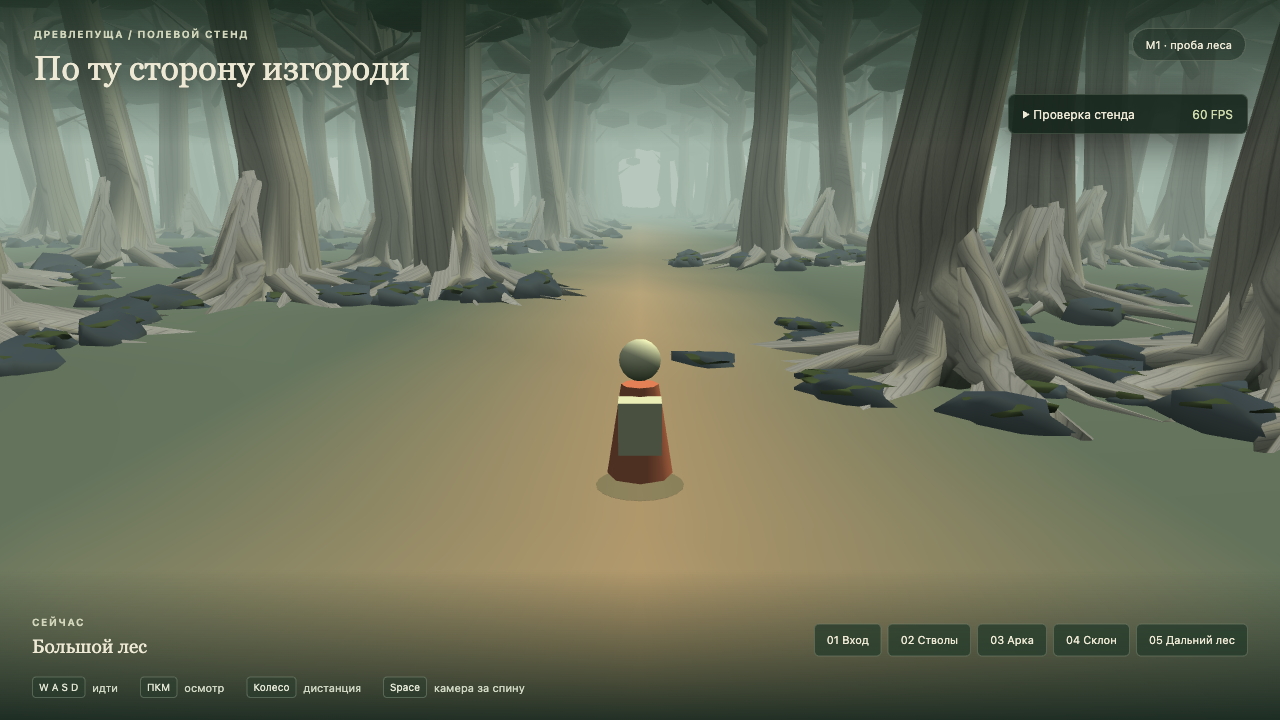
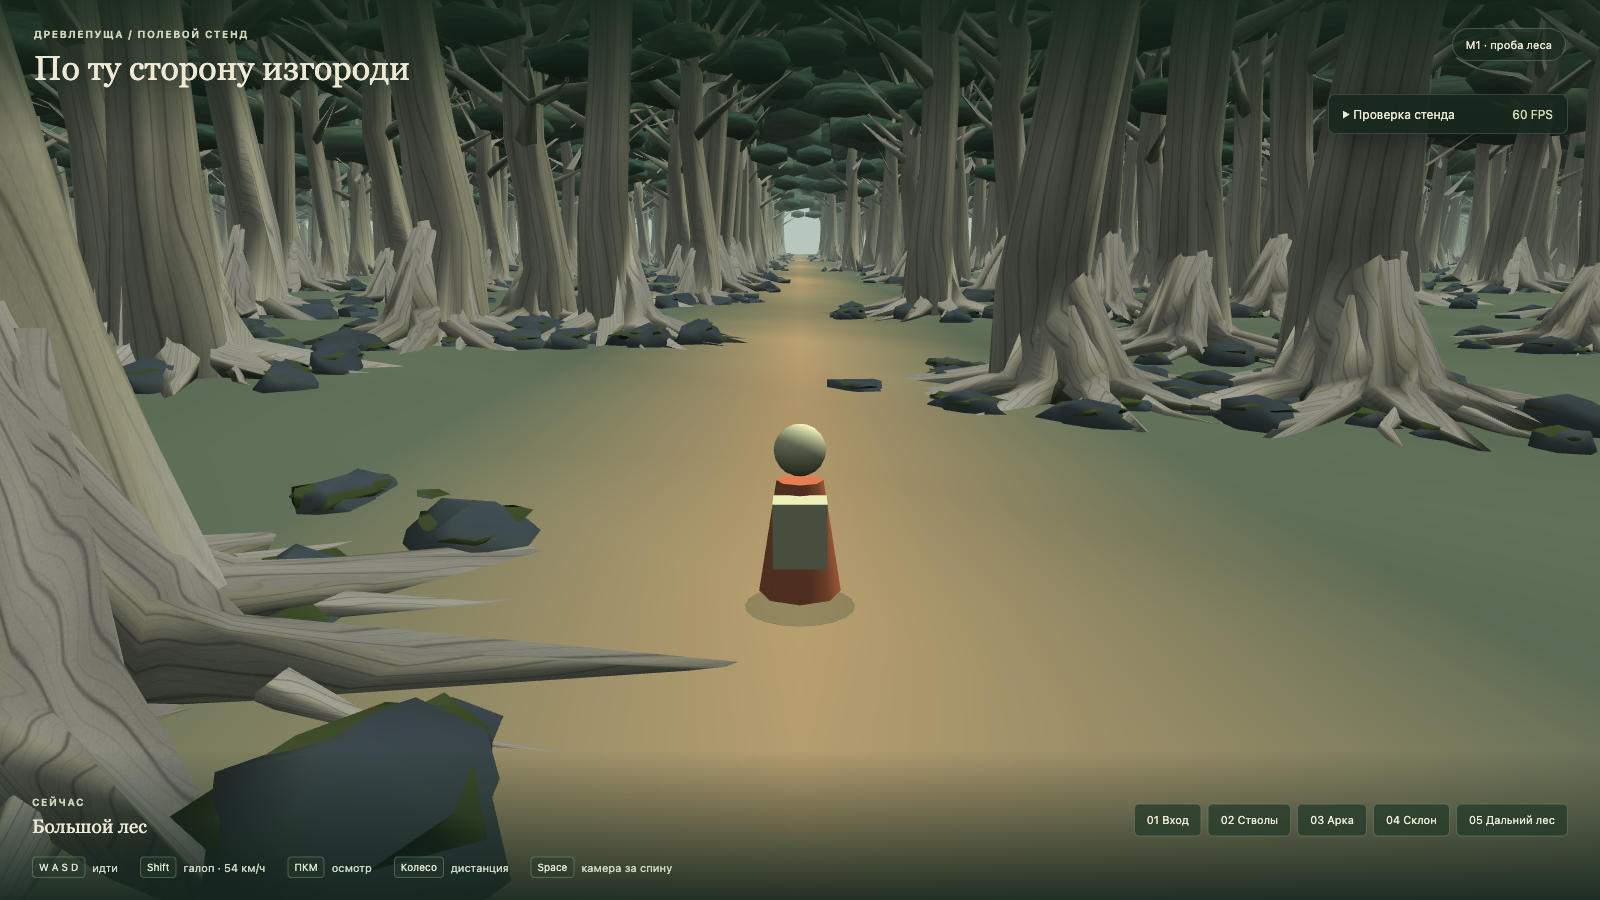
Default M1 to clear air and make dense mist optional

diff --git a/index.html b/index.html
@@ -21,7 +21,7 @@
         <label for="preset">Ракурс камеры</label><select id="preset"></select>
         <label for="renderer">Графика · перезапуск стенда</label><select id="renderer"><option value="auto">Авто: WebGPU → WebGL2</option><option value="webgpu">WebGPU</option><option value="webgl2">WebGL2</option></select>
         <button id="reset" type="button">Вернуться ко входу</button>
-        <div id="forest-controls" hidden><label><input type="checkbox" id="near-only"> Ближняя область без LOD — сравнение нагрузки</label><a href="./tree.html?model=game">Осмотреть игровое дерево</a></div>
+        <div id="forest-controls" hidden><label for="forest-weather">Атмосфера леса</label><select id="forest-weather"><option value="clear">Ясно · лёгкая дымка</option><option value="mist">Туманный лес</option></select><label><input type="checkbox" id="near-only"> Ближняя область без LOD — сравнение нагрузки</label><a href="./tree.html?model=game">Осмотреть игровое дерево</a></div>
         <p><a href="?scene=m1">Лес M1</a> · <a href="?scene=m0">Стенд M0</a></p>
         <p class="muted">Условные формы и синтетическая местность. Художественный лес — следующий этап.</p>
       </details>

diff --git a/src/main.ts b/src/main.ts
@@ -48,6 +48,8 @@ try {
   if(forest){camera.maxZ=1000;world.boxes.push(...forest.boxes);document.title='Древлепуща — лес M1';document.querySelector('.badge')!.textContent='M1 · проба леса';document.querySelector('.muted')!.textContent=`${forest.stats().trees} деревьев · участок 512 × 640 м · автоматические LOD.`;}
   if(forest){document.querySelector('nav')!.insertAdjacentHTML('beforeend','<button data-checkpoint="outer" type="button">05 Дальний лес</button>');document.querySelector('#pause-description')!.textContent='Исследуйте лес 512 × 640 м. Кнопка «Дальний лес» переносит за границы старого стенда; к видимым деревьям можно подойти.';}
   const forestControls=document.querySelector<HTMLElement>('#forest-controls')!;forestControls.hidden=!forest;
+  const weatherSelect=document.querySelector<HTMLSelectElement>('#forest-weather')!;
+  weatherSelect.onchange=()=>{if(forest)scene.fogDensity=weatherSelect.value==='mist'?0.023:0.004;};
   document.querySelector<HTMLInputElement>('#near-only')!.onchange=e=>forest?.setNearOnly((e.target as HTMLInputElement).checked);
   const player={e:0,n:0,heading:0};
   let yaw=0,yawTarget=0,pitch=config.travel.pitchDefaultDeg,distance=config.travel.distanceM;

diff --git a/src/runtime/world.ts b/src/runtime/world.ts
@@ -39,7 +39,7 @@ export function createWorld(scene: Scene, forestMode=false) {
   const hood = material('hood', Color3.FromHexString('#9fa68a'));
   const skin = material('face', Color3.FromHexString('#d8bb91'));
   scene.clearColor = new Color4(0.72, 0.78, 0.74, 1);
-  scene.fogMode = Scene.FOGMODE_EXP2; scene.fogDensity = 0.023;
+  scene.fogMode = Scene.FOGMODE_EXP2; scene.fogDensity = forestMode ? 0.004 : 0.023;
   scene.fogColor = new Color3(0.65, 0.73, 0.68);
   const fill = new HemisphericLight('ambient', new Vector3(0, 1, 0), scene);
   fill.intensity = 0.75; fill.groundColor = new Color3(0.2, 0.26, 0.2);

diff --git a/README.md b/README.md
@@ -12,6 +12,8 @@
 
 Разрешение учитывает пропорции окна и плотность экрана. По умолчанию — «Высокая» чёткость с бюджетом 2560 × 1440 пикселей (3,7 Мп), без ограничения ширины 1280. В «Проверке стенда» доступны 0,9 / 2,1 / 3,7 Мп и «По экрану» (Retina до 2×, сторона до 8192 или лимита GPU). Выбор сохраняется в браузере. Для окна 3440 × 1440: примерно 2968 × 1242 по умолчанию или полные 3440 × 1440 в режиме «По экрану» при DPR 1. На WebGPU проверены окна 3440 × 1440, 1920 × 1080, 900 × 1200, Retina 2× и сохранение выбора после перезагрузки. Это фиксированные уровни качества, без автоматического снижения по FPS; прежние замеры 60 FPS при 1280 × 720 не подтверждают производительность высокого разрешения.
 
+Атмосфера M1 по умолчанию — ясный лес с лёгкой дальней дымкой (EXP2, плотность 0,004 вместо 0,023). Прежний плотный туман выбирается в «Проверке стенда → Атмосфера леса → Туманный лес»; новая загрузка снова открывает ясный вариант. Переключение проверено на WebGPU, ошибок нет; `npm run check` и сборка прошли. В ясную погоду заметнее конечность участка и повторение одной модели.
+
 ## Первая сцена M1
 
 [Открыть лес M1](https://amchercashin.github.io/drevlepuscha/?scene=m1) · [Осмотреть игровое дерево и LOD](https://amchercashin.github.io/drevlepuscha/tree.html?model=game) · [Игровой GLB](assets/trees/game/tree.glb).
